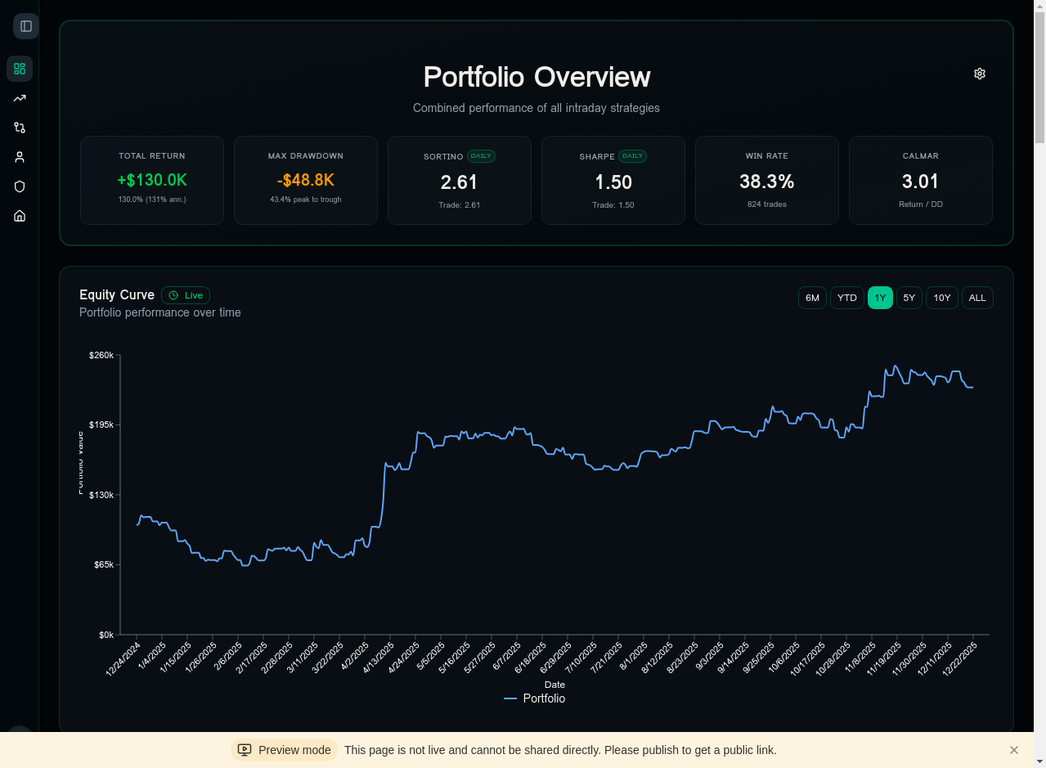
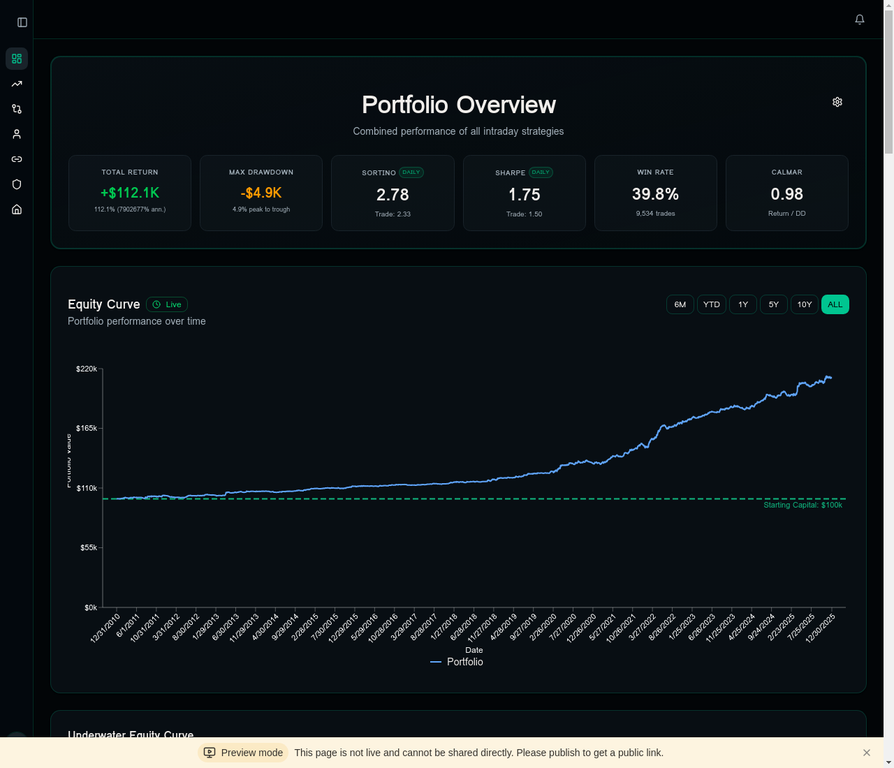
Checkpoint: Homepage updates: 1) Hid Broker Setup from navigation for non-admin users, 2) Updated dashboard screenshots to show 5+ years of data (overview and strategies pages), 3) Added Coming Soon teaser for brokerage auto-execution between pricing and FAQ sections, 4) Replaced 7-day money-back gu

diff --git a/client/src/pages/Home.tsx b/client/src/pages/Home.tsx
@@ -1021,6 +1021,46 @@ export default function Home() {
           </div>
         </section>
 
+        {/* Coming Soon - Brokerage Auto-Execution */}
+        <section className="py-16 border-t border-gray-800/50 bg-gradient-to-b from-amber-950/10 to-transparent">
+          <div className="container">
+            <div className="max-w-3xl mx-auto text-center">
+              <div className="inline-flex items-center gap-2 bg-amber-500/10 border border-amber-500/30 rounded-full px-4 py-2 mb-6">
+                <Zap className="w-4 h-4 text-amber-400" />
+                <span className="text-amber-400 text-sm font-medium">
+                  Coming Soon
+                </span>
+              </div>
+              <h2 className="text-2xl sm:text-3xl font-light text-white mb-4">
+                Automated{" "}
+                <span className="font-bold text-amber-400">
+                  Trade Execution
+                </span>
+              </h2>
+              <p className="text-gray-400 mb-6">
+                We're building direct brokerage integrations to automatically
+                execute trades from your strategies. Connect your Tradovate,
+                Interactive Brokers, or TradeStation account and let the system
+                handle execution while you focus on what matters.
+              </p>
+              <div className="flex flex-wrap justify-center gap-4 text-sm text-gray-500">
+                <span className="flex items-center gap-2">
+                  <CheckCircle2 className="w-4 h-4 text-amber-400/60" />
+                  Paper trading available now
+                </span>
+                <span className="flex items-center gap-2">
+                  <CheckCircle2 className="w-4 h-4 text-amber-400/60" />
+                  Live execution Q1 2025
+                </span>
+                <span className="flex items-center gap-2">
+                  <CheckCircle2 className="w-4 h-4 text-amber-400/60" />
+                  Free for Pro subscribers
+                </span>
+              </div>
+            </div>
+          </div>
+        </section>
+
         {/* FAQ Section */}
         <section id="faq" className="py-20 border-t border-gray-800/50">
           <div className="container">

diff --git a/client/src/pages/LandingPage.tsx b/client/src/pages/LandingPage.tsx
@@ -940,6 +940,44 @@ export default function LandingPage() {
         </div>
       </section>
 
+      {/* Coming Soon - Brokerage Auto-Execution */}
+      <section className="py-16 border-t border-gray-800/50 bg-gradient-to-b from-amber-950/10 to-transparent">
+        <div className="container">
+          <div className="max-w-3xl mx-auto text-center">
+            <div className="inline-flex items-center gap-2 bg-amber-500/10 border border-amber-500/30 rounded-full px-4 py-2 mb-6">
+              <Zap className="w-4 h-4 text-amber-400" />
+              <span className="text-amber-400 text-sm font-medium">
+                Coming Soon
+              </span>
+            </div>
+            <h2 className="text-2xl sm:text-3xl font-light text-white mb-4">
+              Automated{" "}
+              <span className="font-bold text-amber-400">Trade Execution</span>
+            </h2>
+            <p className="text-gray-400 mb-6">
+              We're building direct brokerage integrations to automatically
+              execute trades from your strategies. Connect your Tradovate,
+              Interactive Brokers, or TradeStation account and let the system
+              handle execution while you focus on what matters.
+            </p>
+            <div className="flex flex-wrap justify-center gap-4 text-sm text-gray-500">
+              <span className="flex items-center gap-2">
+                <CheckCircle2 className="w-4 h-4 text-amber-400/60" />
+                Paper trading available now
+              </span>
+              <span className="flex items-center gap-2">
+                <CheckCircle2 className="w-4 h-4 text-amber-400/60" />
+                Live execution Q1 2025
+              </span>
+              <span className="flex items-center gap-2">
+                <CheckCircle2 className="w-4 h-4 text-amber-400/60" />
+                Free for Pro subscribers
+              </span>
+            </div>
+          </div>
+        </div>
+      </section>
+
       {/* FAQ Section */}
       <section id="faq" className="py-20 border-t border-gray-800/50">
         <div className="container">

diff --git a/client/src/components/DashboardLayout.tsx b/client/src/components/DashboardLayout.tsx
@@ -62,7 +62,7 @@ const baseMenuItems = [
     icon: Link2,
     label: "Broker Setup",
     path: "/broker-setup",
-    adminOnly: false,
+    adminOnly: true,
   },
   { icon: Shield, label: "Admin", path: "/admin", adminOnly: true },
   {

diff --git a/todo.md b/todo.md
@@ -5329,3 +5329,9 @@
 - [ ] Document broker setup process
 - [ ] Document error codes and troubleshooting
 - [ ] Create production deployment checklist
+
+## Dec 30, 2025 - Homepage Updates Part 2
+
+- [x] Hide broker connections page from navigation for non-admin users
+- [x] Update dashboard screenshots to show 5+ years of data
+- [x] Add Coming Soon teaser for brokerage auto-execution
